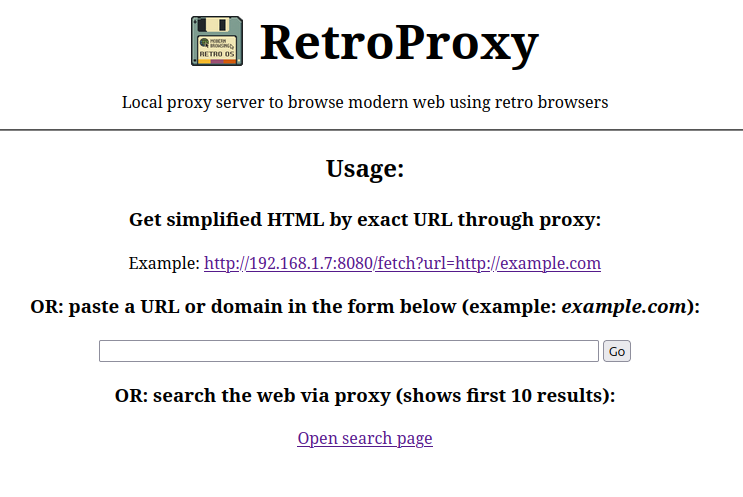
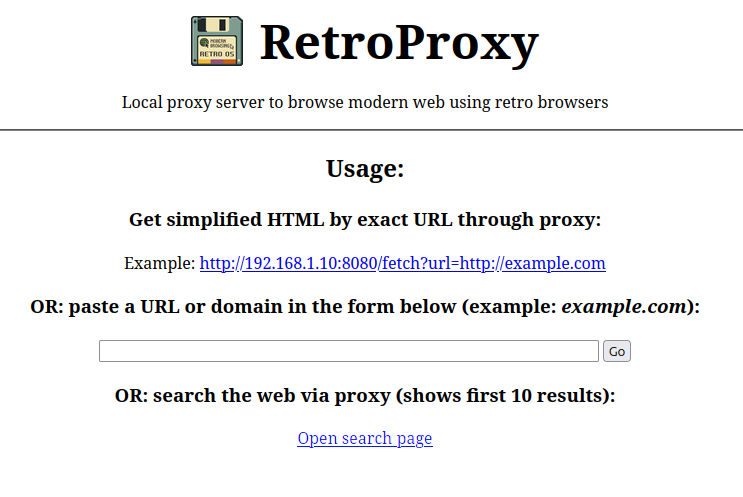
Update Readme

Changed region(s): [[0.1548, 0.5131, 0.8358, 0.5734], [0.4024, 0.8753, 0.5882, 0.9054]]

diff --git a/scripts/retroproxy.py b/scripts/retroproxy.py
@@ -596,7 +596,7 @@ class RetroProxyHandler(BaseHTTPRequestHandler):
             "<center>\n"
             "<table border=\"0\" cellpadding=\"0\" cellspacing=\"0\">\n"
             "<tr>\n"
-            "<td valign=\"middle\"><img src=\"https://github.com/timpyrkov/retroproxy/blob/master/logo.png?raw=true\" alt=\"RetroProxy\" height=\"50\" align=\"middle\"></td>\n"
+            "<td valign=\"middle\"><img src=\"https://github.com/timpyrkov/retroproxy/blob/master/img/logo.png?raw=true\" alt=\"RetroProxy\" height=\"50\" align=\"middle\"></td>\n"
             "<td valign=\"middle\">&nbsp;<font size=\"7\"><b> RetroProxy</b></font></td>\n"
             "</tr>\n"
             "</table>\n"

diff --git a/README.md b/README.md
@@ -1,16 +1,58 @@
 <h1><p align="left">
-  <img src="https://github.com/timpyrkov/retroproxy/blob/master/logo.png?raw=true" alt="RetroProxy logo" height="30" style="vertical-align: middle; margin-right: 10px;">
+  <img src="https://github.com/timpyrkov/retroproxy/blob/master/img/logo.png?raw=true" alt="RetroProxy logo" height="30" style="vertical-align: middle; margin-right: 10px;">
   <span style="font-size:2.5em; vertical-align: middle;"><b>RetroProxy</b></span>
 </p></h1>
 
 
-A small hobby project to convert modern web pages into simplified HTML that can be displayed by retro browsers (e.g. text-mode browsers and very old Windows browsers like Internet Explorer 3).
+Convert modern web pages to simplified HTML consumable by retro browsers.
 
-This repository contains:
+Very old DOS/Windows browsers like DOSLYNX, Internet Explorer 3/4 cannot display most modern web pages.
 
-- `scripts/retroproxy.py` — the main script. Runs a local “retro gateway” proxy server on a modern machine (Mac/Linux) so a retro PC on the same LAN can browse *through* it.
-- `scripts/whatismyip.py` — helper tool to print local interface IPv4 addresses.
-- `tests/test_converter.py` — pytest + manual test runner for the HTML converter.
+This project removes unsupported parts (JS, CSS, SVG, canvas, video, etc.), keeps links, and produces simple HTML compatible with HTML 3.2.
+
+### Typical setup (Proxy Server and Retro PC on the same LAN)
+
+```text
+         Modern PC                              Retro PC      
+       (Mac, Linux)                         (DOS, Win 95/98)    
+     ________________                       ________________     
+    |  ____________  |                     |  ____________  |    
+    | |            | |     URL / Domain    | |            | |    
+    | |   Server   | | <------------------ | |   Client   | |    
+    | |            | |                     | |            | |    
+    | |____________| | ------------------> | |____________| |    
+    |________________|   Simplified HTML   |________________|    
+       _|________|_                           _|________|_       
+     _/ ********** \_                       _/ ********** \_     
+    /  ************  \                     /  ************  \    
+    ------------------                     ------------------    
+                :                               :                
+                .................................                
+                               LAN                               
+```
+
+### Quick start (Windows 95/98)
+
+**On your modern machine** (Mac/Linux/Raspberry Pi/etc.), copy `scripts/retroproxy.py` to a location you want to run a local proxy server and run:
+
+```bash
+python3 scripts/retroproxy.py
+```
+
+The proxy will print a URL like `http://192.168.1.10:8080/`. Use `scripts/whatismyip.py` to check its actual IP address.
+
+**On your retro PC**, open the proxy URL like `http://192.168.1.10:8080/` in the browser. Use the actual IP address of your modern machine instead of `192.168.1.10`.
+
+You will see a start page with a form to enter a URL and start browsing.
+
+![RetroProxy index page](https://github.com/timpyrkov/retroproxy/blob/master/img/index.png?raw=true)
+
+
+### Quick start (DOS)
+
+Set up a proxy server on a modern machine (Mac, Linux, etc.) and open the proxy URL using the `LYNX.BAT` file.
+
+See details in the `dos/README.md` file.
 
 ## What this project does (in plain words)
 
@@ -23,29 +65,14 @@ Modern web pages contain a lot of things that old browsers cannot handle:
 
 This project fetches the page on a modern computer, removes unsupported parts, keeps links, and produces simple HTML closer to the HTML 3.2 era.
 
-## Requirements
+### Full browsing mode (every click stays proxied)
 
-- Python 3 (no third-party dependencies)
-- A modern machine to run the proxy (MacOS, Ubuntu, Raspberry Pi OS, etc.)
-- A retro machine (optional) such as Windows 95/98 with IE3/IE4, or DOS + Lynx, on the same LAN
+The proxy rewrites links in converted HTML so that:
 
-## Quick start: test the converter
+- clicking links keeps you inside the proxy
+- relative URLs are normalized against the current page
 
-The HTML converter logic lives inside `scripts/retroproxy.py` (classes `RetroParser` and `RetroConverter`).
-
-### Run tests with pytest
-
-```bash
-pytest -q
-```
-
-### Manual conversion run (writes converted files next to fixtures)
-
-```bash
-python3 tests/test_converter.py
-```
-
-## Main Goal: browse the web from a retro PC through a modern machine
+So you can usually navigate by clicking as you would normally.
 
 ### Why a proxy/gateway is needed
 
@@ -60,15 +87,21 @@ A modern proxy machine can:
 2) convert it to simplified HTML
 3) serve it to the retro browser over plain HTTP
 
+## Requirements
+
+- Python 3 (no third-party dependencies)
+- A modern machine to run the proxy (MacOS, Ubuntu, Raspberry Pi OS, etc.)
+- A retro machine (optional) such as Windows 95/98 with IE3/IE4, or DOS + Lynx, on the same LAN
+
 ## Run the retro proxy (modern machine)
 
-On your modern machine (Mac/Linux/Raspberry Pi/etc.), copy `scripts/retroproxy.py` to a location you want to run a local proxy server and run:
+Run:
 
 ```bash
-python3 scripts/retroproxy.py --host 0.0.0.0 --port 8080
+python3 scripts/retroproxy.py
 ```
 
-- `--host 0.0.0.0` means “listen on all network interfaces”, so other devices on your LAN can access it.
+- Use `--host 0.0.0.0` to listen on all network interfaces, so other devices on your LAN can access it.
 - The proxy prints a URL like `http://192.168.1.10:8080/`. Use `scripts/whatismyip.py` to check the actual IP address of your modern machine and use it in the URL. That is the address your retro PC should open.
 
 ### Check if the port is already in use (macOS)
@@ -93,50 +126,17 @@ Alternative (sometimes useful):
 netstat -anv | grep LISTEN
 ```
 
+## Run with specific port
+
+```bash
+python3 scripts/retroproxy.py --port 8080
+```
+
 ### Or keep images in proxied pages
 
 ```bash
-python3 scripts/retroproxy.py --host 0.0.0.0 --port 8080 -m
+python3 scripts/retroproxy.py --port 8080 -m
 ```
-
-## How to use it from the retro PC
-
-### Step 1: find the proxy machine IP
-
-When you start `scripts/retroproxy.py`, it prints something like:
-
-- `Retro proxy listening on http://192.168.1.10:8080/`
-
-In this EXAMPLE:
-
-- Proxy IP is `192.168.1.10`
-- Proxy port is `8080`
-
-### Step 2: open the proxy start page in IE
-
-In the retro browser, open:
-
-- `http://192.168.1.10:8080/`
-
-You’ll see a simple page with a text box.
-
-### Step 3: type a URL into the form
-
-Examples:
-
-- `http://example.com`
-- `https://en.wikipedia.org/wiki/Barcelona`
-
-The proxy will fetch the page on the modern machine, convert it, and return simplified HTML.
-
-### Full browsing mode (every click stays proxied)
-
-The proxy rewrites links in converted HTML so that:
-
-- clicking links keeps you inside the proxy
-- relative URLs are normalized against the current page
-
-So you can usually navigate by clicking as you would normally.
 
 ## Optional: configure IE3/IE4 to use the proxy as an HTTP proxy
 
@@ -152,80 +152,6 @@ Notes:
 - Modern HTTPS sites usually still won’t work transparently because browsers use `CONNECT` for HTTPS tunneling.
 - This proxy intentionally does **not** MITM HTTPS and responds with “CONNECT not supported”.
 
-## Networking checklist (beginner friendly)
-
-If the retro PC cannot connect to the proxy:
-
-- Confirm both machines are on the same LAN and can ping each other.
-- Make sure your modern machine firewall allows inbound connections to port `8080`.
-- Try opening `http://<proxy-ip>:8080/` from another modern machine first (phone/laptop) to verify it is reachable.
-- On the modern machine, keep the `retroproxy.py` running while browsing.
-
-## Troubleshooting
-
-### The proxy start page opens, but some sites show empty content
-
-Some modern sites render the page almost entirely using JavaScript.
-
-This project removes scripts and produces a simplified HTML view, but if the original HTML contains no meaningful server-rendered content, the result can be minimal.
-
-### Images do not show in the retro browser
-
-Possible reasons:
-
-- The page uses HTTPS image URLs and the browser can’t fetch them.
-- The images are in a modern format like WebP/AVIF.
-- The server blocks hotlinking or requires modern headers.
-
-Try browsing with images disabled (default) or rely on ALT text.
-
-### “CONNECT not supported”
-
-This happens when a browser tries to tunnel HTTPS through the proxy.
-
-Use the gateway style instead:
-
-- `http://<proxy-ip>:8080/fetch?url=https://example.com`
-
-## TODO: Search support (Google / alternatives)
-
-Today, many search homepages (including Google) are heavily JavaScript-driven and the converter intentionally strips scripts. This usually removes the interactive search UI.
-
-Possible variants (with feasibility notes):
-
-- **Variant A: Proxy-provided search page (recommended)**
-  - Add a simple HTML 3.2 search form served by RetroProxy itself (e.g. `/search`).
-  - On submit, the proxy redirects to a known “no-JS needed” results URL like:
-    - `https://www.google.com/search?q=...`
-  - The proxy then converts that results page and rewrites links as usual.
-  - Pros: reliable UI for retro browsers; no need to preserve modern homepage markup.
-  - Cons: Google results markup still changes; might require a more browser-like User-Agent.
-
-- **Variant B: Preserve basic `<form>` / `<input>` elements during conversion**
-  - Extend `RetroParser` to allow a minimal subset: `form`, `input`, `button`, `label`.
-  - Sanitize/keep only safe attributes like `action`, `method`, `type`, `name`, `value`.
-  - Rewrite `action` URLs so submissions stay proxied.
-  - Pros: could keep some simple search forms from various sites.
-  - Cons: many modern pages build forms dynamically with JS; Google homepage is unlikely to work fully.
-
-- **Variant C: Use a “lite” search frontend (best user experience, not Google-branded)**
-  - Add built-in support for text-first endpoints that don’t require JS.
-  - Examples to explore: DuckDuckGo HTML / “lite” interfaces, or other simple search gateways.
-  - Pros: stable HTML, easier for old browsers.
-  - Cons: not Google.
-
-- **Variant D: Pre-rendering / external rendering service (advanced)**
-  - Use a headless browser (Playwright/Chromium) to render JS-heavy pages server-side.
-  - Convert the rendered DOM to retro HTML.
-  - Pros: can handle truly JS-only sites.
-  - Cons: adds heavy dependencies, higher CPU/RAM, security considerations.
-
-Suggested short plan:
-
-1) Implement Variant A (`/search` page served by RetroProxy) and make it the default “start page” option.
-2) If needed, tune upstream request headers (User-Agent / Accept-Language) to get stable HTML results.
-3) Optionally add Variant B for generic “simple form preservation” on non-Google sites.
-4) Consider Variant D only if you really need JS-heavy websites.
 
 ## Security note
 
